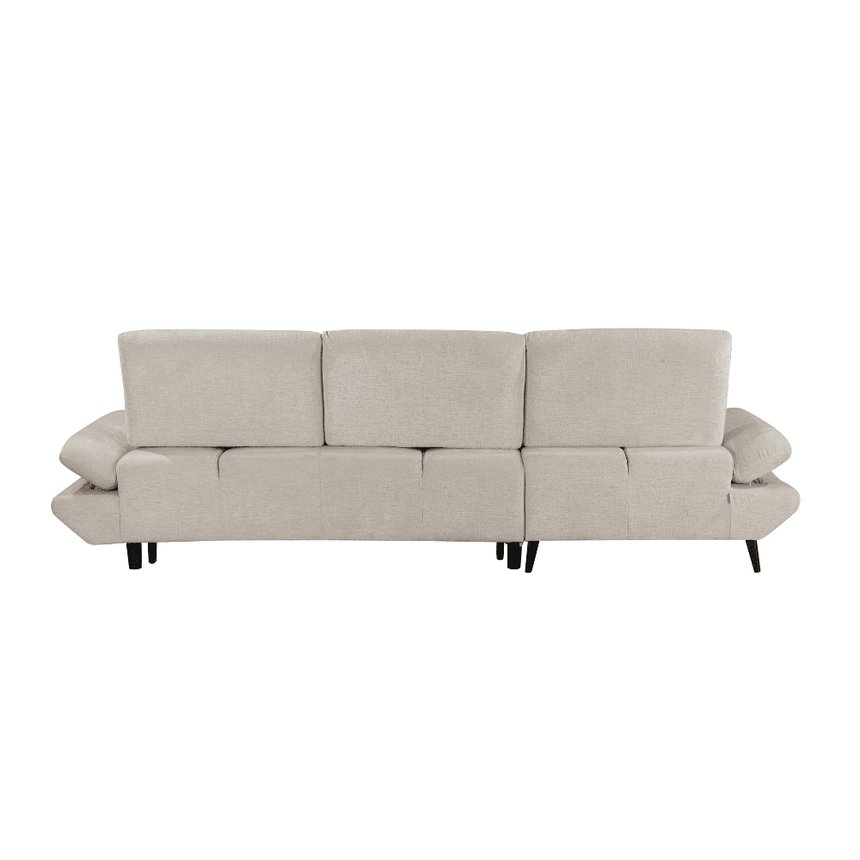
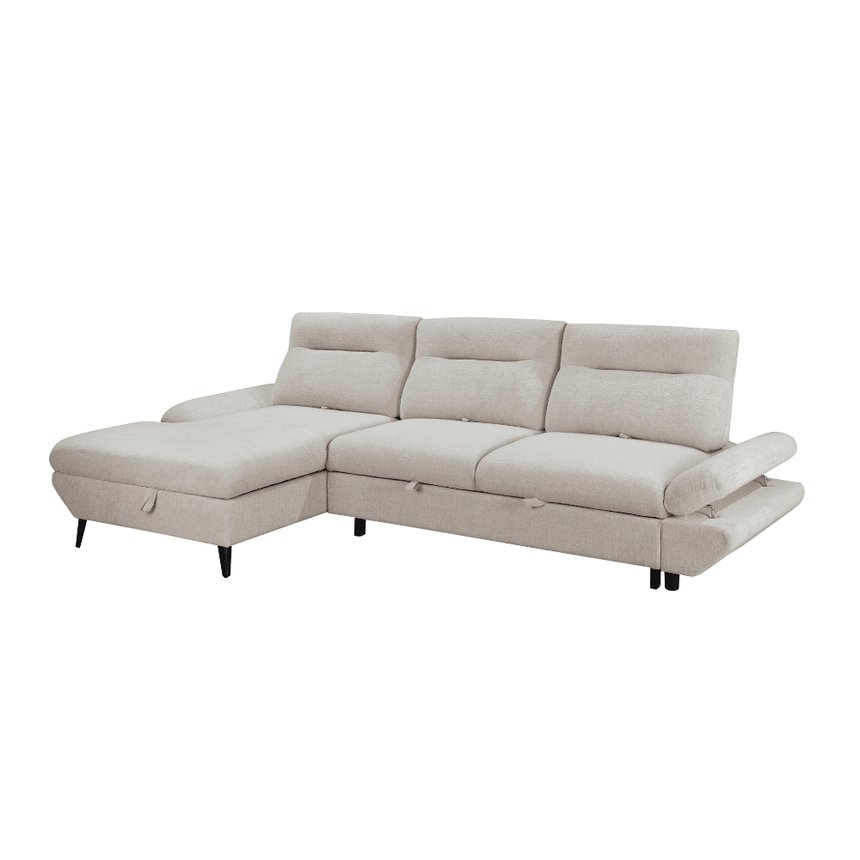
p05 is a corner sofa - rebuilt from the right gallery image

Changed region(s): [[0.0605, 0.3628, 0.9372, 0.6953], [0.6953, 0.4233, 0.8163, 0.4535]]

diff --git a/all/p05.html b/all/p05.html
@@ -158,7 +158,7 @@ body{
     <h1 class="ptitle">סלון פינתי בעל מיטה זוגית נשלפת וארגז מצעים</h1>
     <p class="psub">סלון פינתי בעל מיטה זוגית נשלפת וארגז מצעים</p>
 
-    <div class="opt"><h3>צד שזלונג <i>*</i></h3><div class="picks"><div class="pick">שזלונג ימני<small>בעמידה מול הספה</small></div><div class="pick">שזלונג שמאלי<small>בעמידה מול הספה</small></div></div></div>
+    <div class="opt"><h3>צד שזלונג <i>*</i></h3><div class="picks"><div class="pick">שזלונג ימני<small>בעמידה מול הספה</small></div><div class="pick on">שזלונג שמאלי<small>בעמידה מול הספה</small></div></div></div>
 
     <div class="cartrow">
       <div class="qty">−&nbsp;<span style="color:#000">1</span>&nbsp;+</div>
